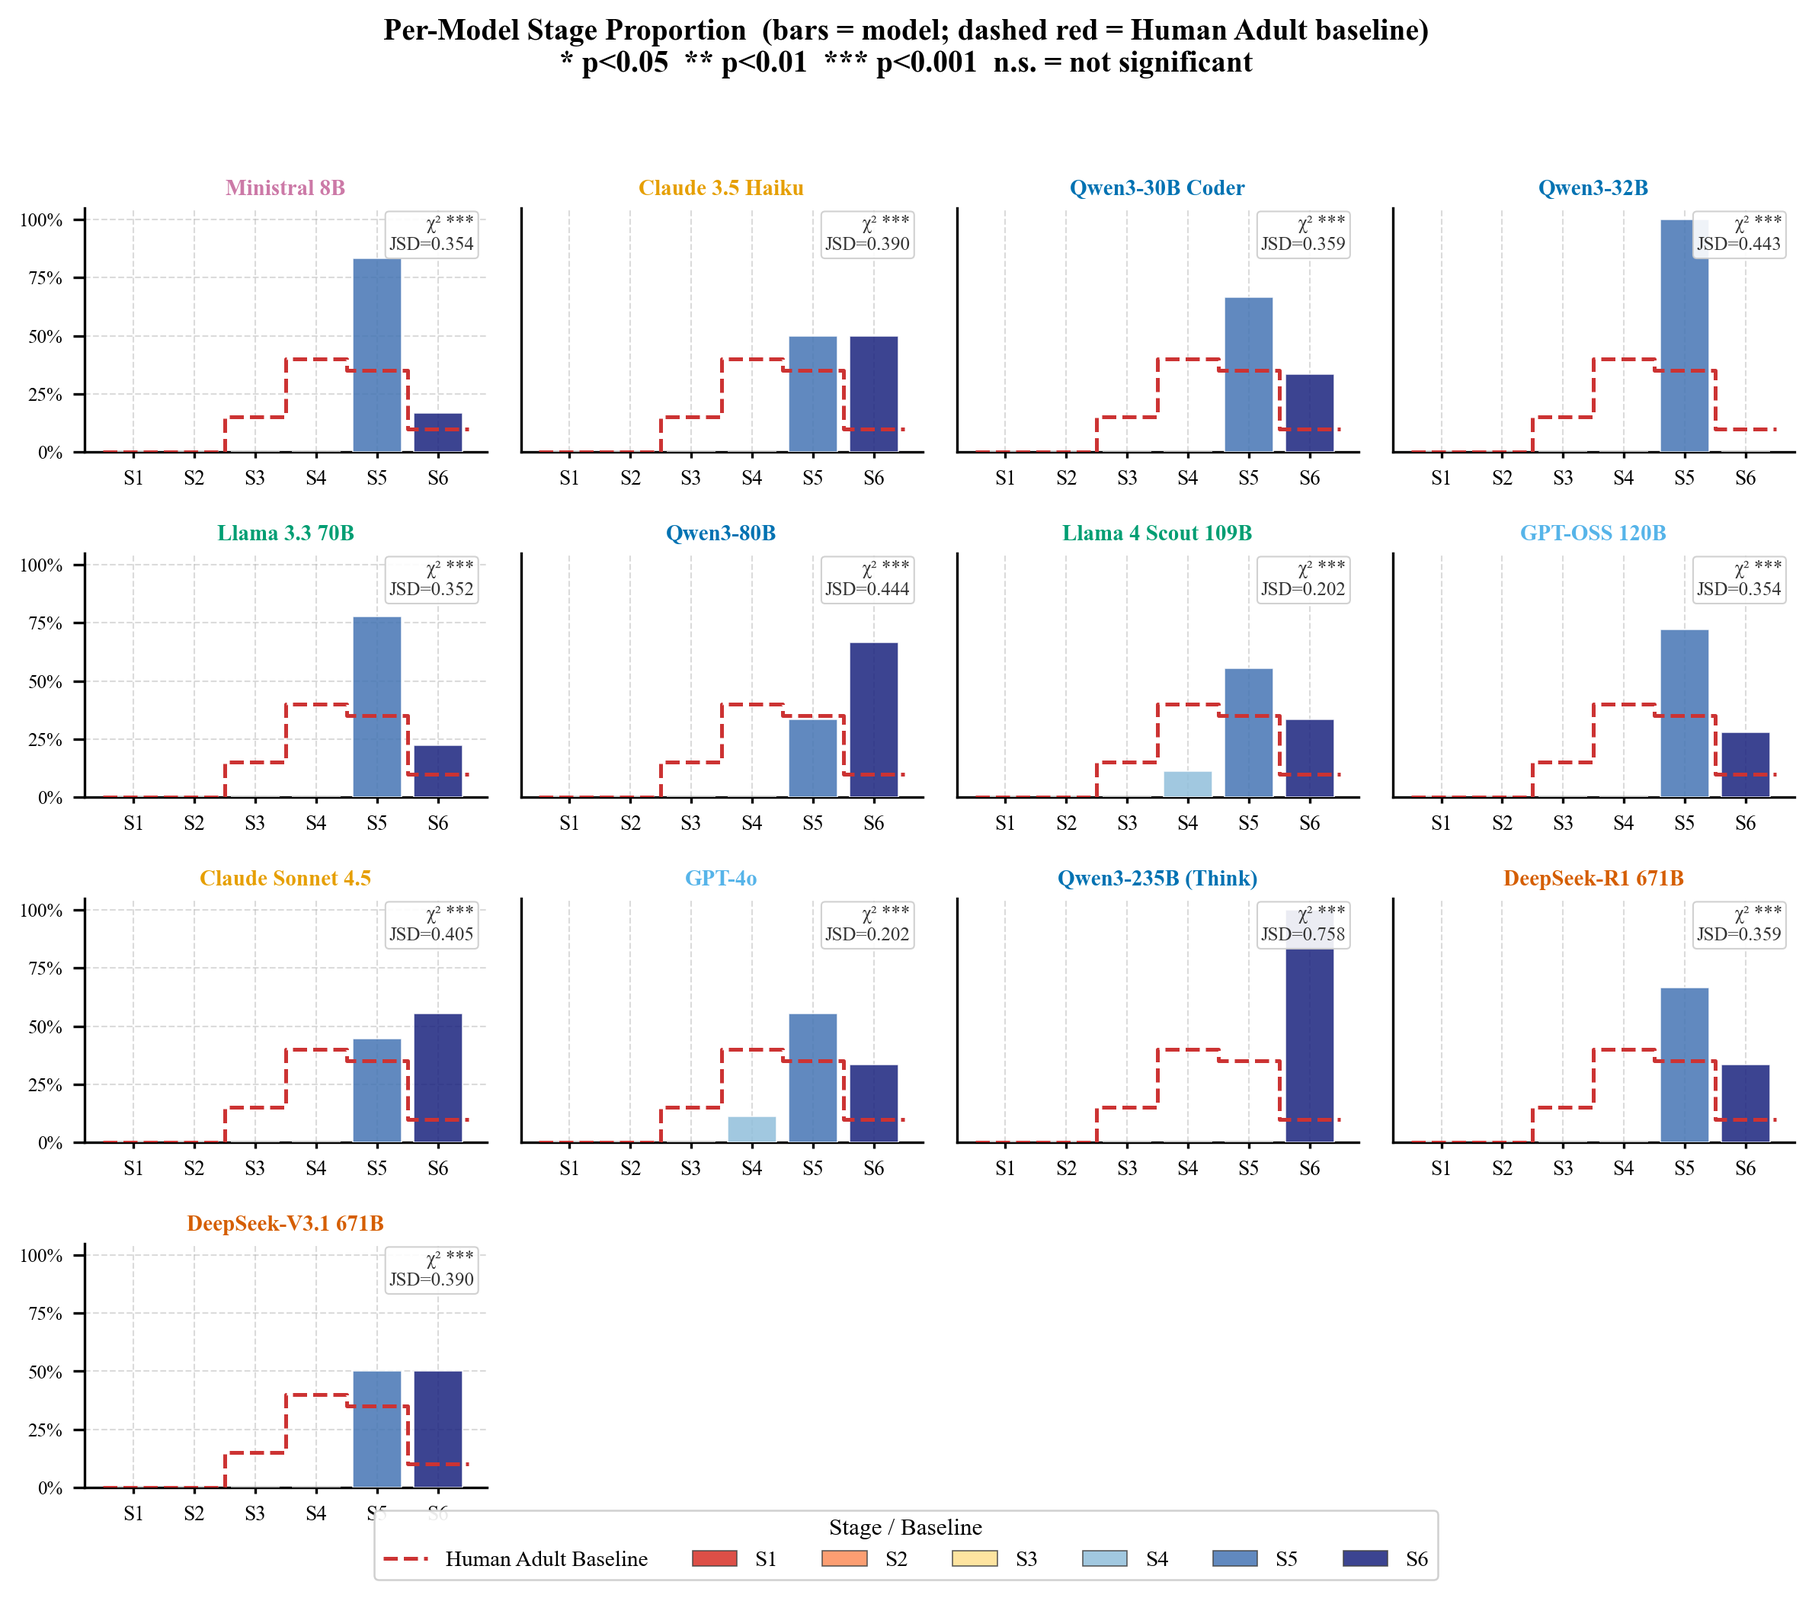
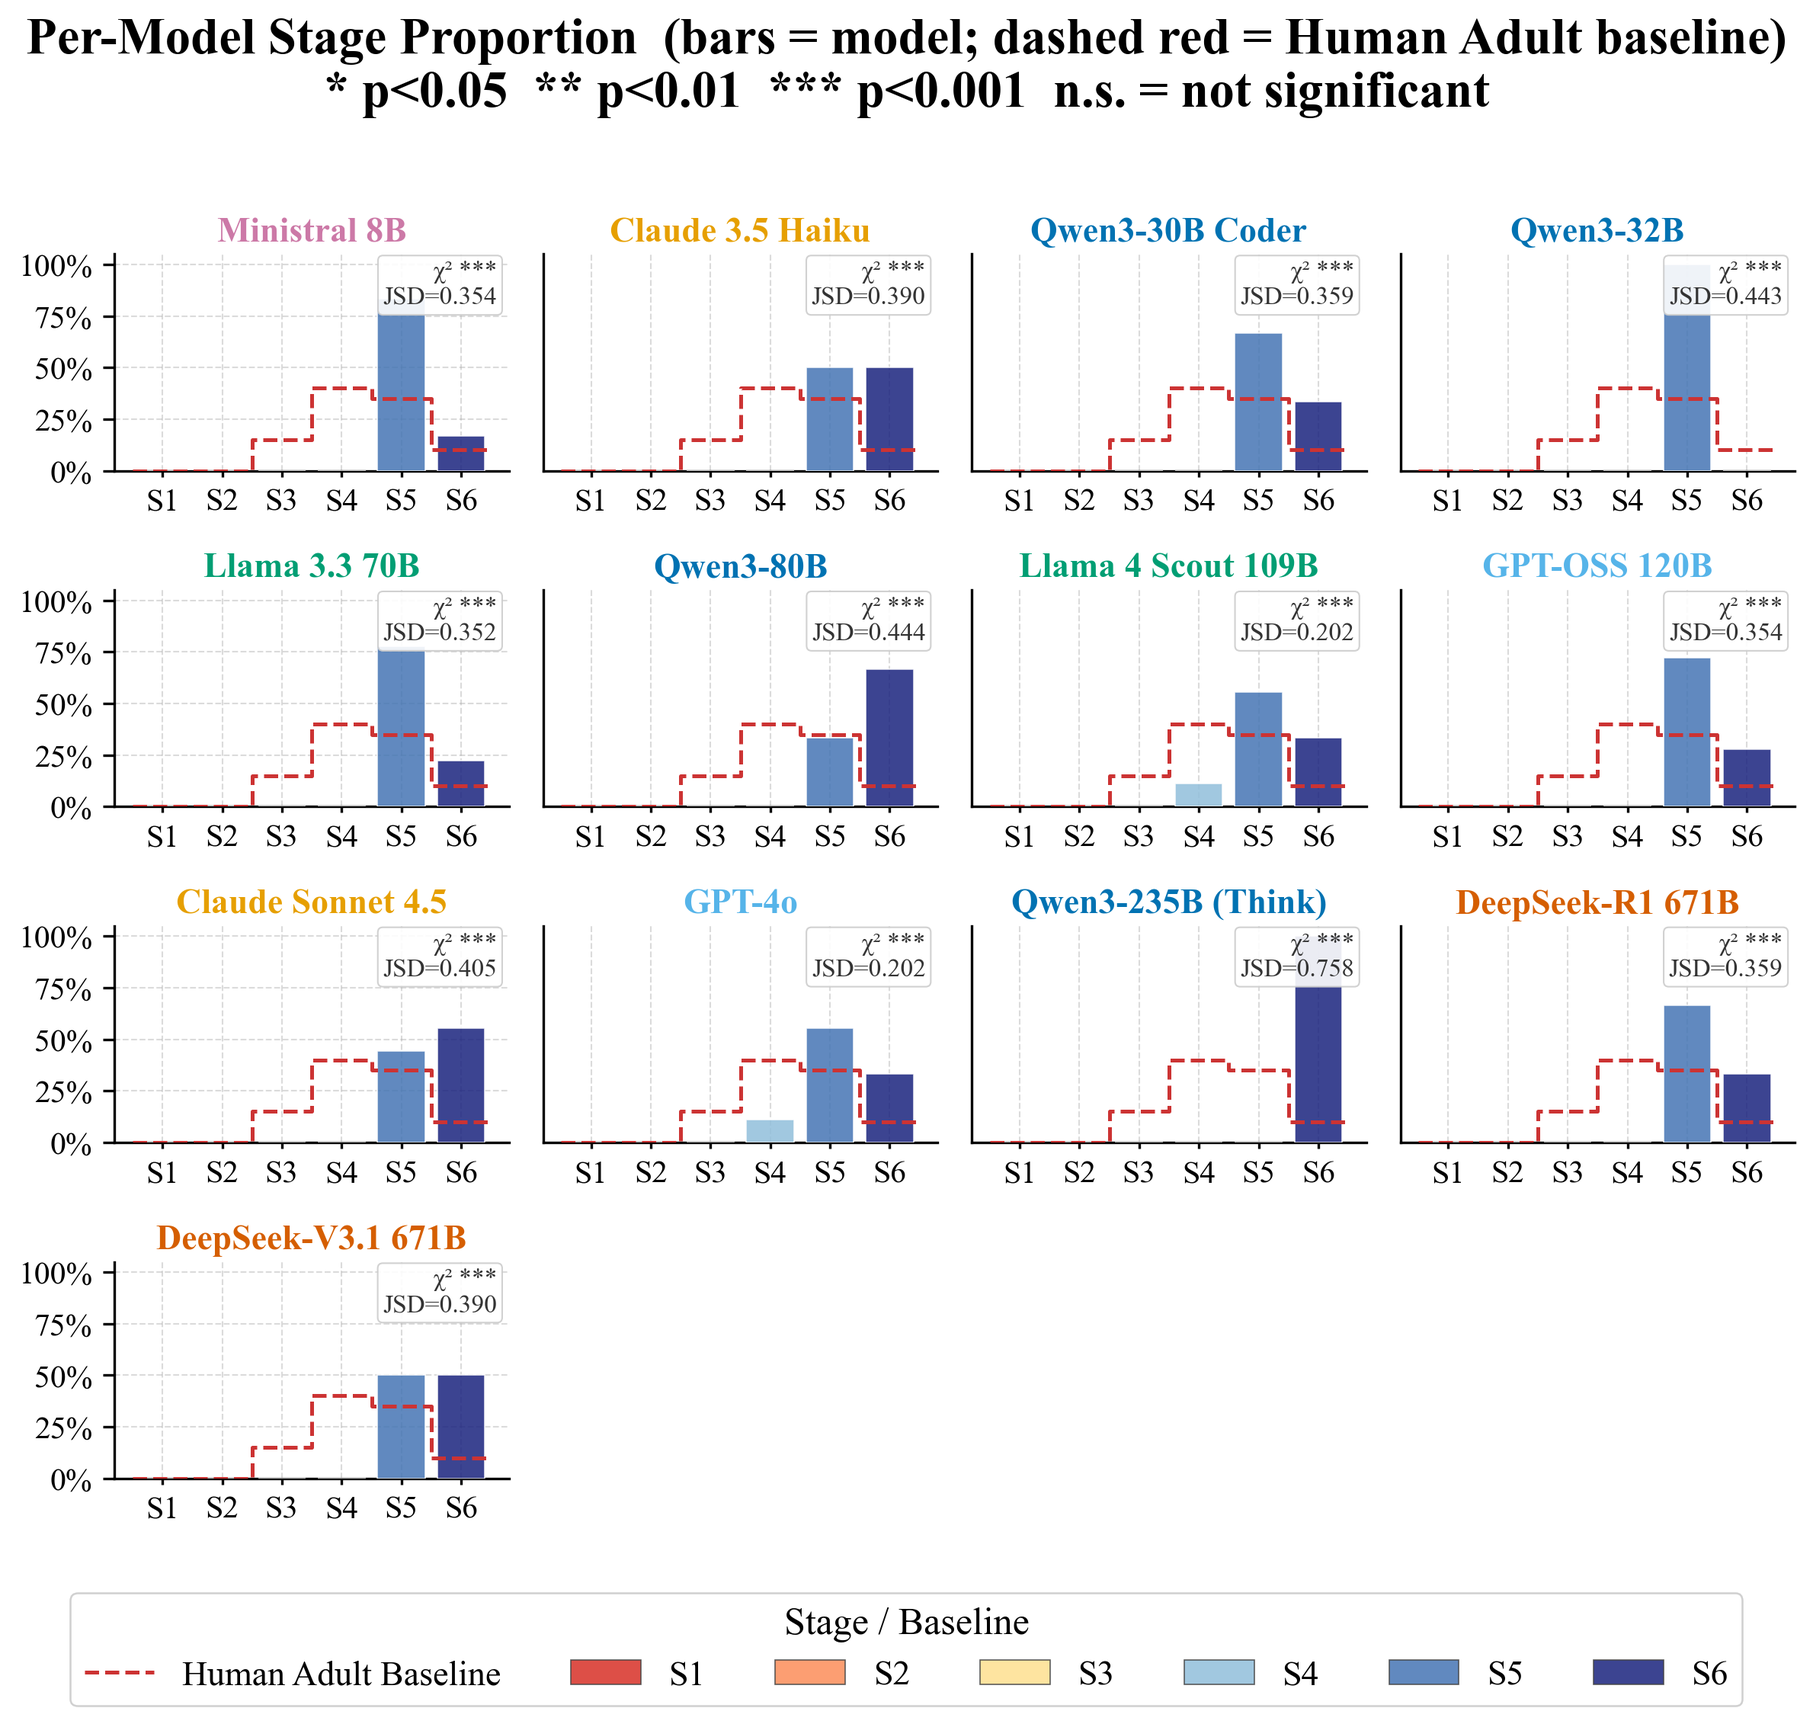
Updated the figures to match the text size

diff --git a/analysis4/visualizations.py b/analysis4/visualizations.py
@@ -117,7 +117,7 @@ def plot_stacked_bar(dist_df: pd.DataFrame, out_dir: Path) -> None:
                 ax.text(
                     left + w / 2, row_idx,
                     f"{w*100:.0f}%",
-                    ha="center", va="center", fontsize=6.2,
+                    ha="center", va="center", fontsize=9.0,
                     color="white" if STAGE_COLORS[s] in ("#4575b4", "#1a237e", "#d73027") else "#222222",
                     fontweight="bold",
                 )
@@ -140,26 +140,26 @@ def plot_stacked_bar(dist_df: pd.DataFrame, out_dir: Path) -> None:
             y_colors.append(_pc(prov))
 
     ax.set_yticks(y_pos)
-    ax.set_yticklabels(y_labels, fontsize=8.0)
+    ax.set_yticklabels(y_labels, fontsize=12.0)
     for ytick, col in zip(ax.get_yticklabels(), y_colors):
         ytick.set_color(col)
 
     ax.set_xlim(0, 1.01)
     ax.set_xticks(np.arange(0, 1.1, 0.1))
-    ax.set_xticklabels([f"{int(v*100)}%" for v in np.arange(0, 1.1, 0.1)], fontsize=8)
-    ax.set_xlabel("Proportion of Responses", labelpad=5)
+    ax.set_xticklabels([f"{int(v*100)}%" for v in np.arange(0, 1.1, 0.1)], fontsize=12)
+    ax.set_xlabel("Proportion of Responses", labelpad=5, fontsize=14)
     ax.set_title(
         "Kohlberg Stage Distribution — All Models vs. Human Baselines\n"
         "(hatch = human baseline; y-axis colour = provider; "
         "bars sorted by model scale small→large)",
-        fontsize=10, pad=8, fontweight="bold",
+        fontsize=16, pad=8, fontweight="bold",
     )
 
     leg = ax.legend(
         handles=_stage_handles(),
-        title="Kohlberg Stage", title_fontsize=8,
+        title="Kohlberg Stage", title_fontsize=12,
         loc="upper left", bbox_to_anchor=(1.01, 1.0),
-        fontsize=7.5, framealpha=0.92, edgecolor="#cccccc",
+        fontsize=11.0, framealpha=0.92, edgecolor="#cccccc",
         ncol=1,
     )
 
@@ -219,7 +219,7 @@ def plot_histogram_grid(dist_df: pd.DataFrame, chi_df: pd.DataFrame, out_dir: Pa
             sig   = "***" if p_val < 0.001 else ("**" if p_val < 0.01 else ("*" if p_val < 0.05 else "n.s."))
             ax.text(0.97, 0.97,
                     f"χ² {sig}\nJSD={jsd:.3f}",
-                    transform=ax.transAxes, fontsize=6.0,
+                    transform=ax.transAxes, fontsize=8.0,
                     va="top", ha="right", color="#333333",
                     bbox=dict(boxstyle="round,pad=0.2", facecolor="white",
                               edgecolor="#cccccc", lw=0.5, alpha=0.90))
@@ -227,16 +227,16 @@ def plot_histogram_grid(dist_df: pd.DataFrame, chi_df: pd.DataFrame, out_dir: Pa
         prov_col = _pc(mrow["provider"])
         ax.set_title(
             mrow["display_name"],
-            fontsize=7.0, pad=4, fontweight="bold", color=prov_col,
+            fontsize=11.0, pad=4, fontweight="bold", color=prov_col,
         )
         ax.set_xticks(x)
-        ax.set_xticklabels([f"S{s}" for s in STAGES], fontsize=6.5)
+        ax.set_xticklabels([f"S{s}" for s in STAGES], fontsize=10.0)
         ax.set_ylim(0, 1.05)
         ax.set_yticklabels([])
         ax.yaxis.set_visible(ax_idx % n_cols == 0)
         if ax_idx % n_cols == 0:
             ax.set_yticks([0, 0.25, 0.50, 0.75, 1.0])
-            ax.set_yticklabels(["0%", "25%", "50%", "75%", "100%"], fontsize=6.0)
+            ax.set_yticklabels(["0%", "25%", "50%", "75%", "100%"], fontsize=10.0)
         ax.tick_params(axis="x", length=2)
 
     # Hide unused panels
@@ -253,16 +253,16 @@ def plot_histogram_grid(dist_df: pd.DataFrame, chi_df: pd.DataFrame, out_dir: Pa
     ]
     fig.legend(
         handles=handles,
-        title="Stage / Baseline", title_fontsize=7.5,
-        loc="lower center", ncol=7,
-        bbox_to_anchor=(0.5, -0.02),
-        fontsize=7.0, framealpha=0.92, edgecolor="#cccccc",
+        title="Stage / Baseline", title_fontsize=12.0,
+        loc="upper center", ncol=7,
+        bbox_to_anchor=(0.5, -0.01),
+        fontsize=11.0, framealpha=0.92, edgecolor="#cccccc",
     )
 
     fig.suptitle(
         "Per-Model Stage Proportion  (bars = model; dashed red = Human Adult baseline)\n"
         "* p<0.05  ** p<0.01  *** p<0.001  n.s. = not significant",
-        fontsize=9.5, fontweight="bold", y=1.02,
+        fontsize=16.0, fontweight="bold", y=1.02,
     )
     fig.tight_layout()
     _save(fig, out_dir, "fig2_histogram_grid.png")
@@ -287,7 +287,7 @@ def plot_jsd_heatmap(jsd_df: pd.DataFrame, out_dir: Path) -> None:
             jsd_df,
             cmap="YlOrRd", vmin=0, vmax=0.55,
             annot=True, fmt=".2f",
-            annot_kws={"size": 6.5, "fontweight": "bold"},
+            annot_kws={"size": 10.0, "fontweight": "bold"},
             linewidths=0.4, linecolor="#e0e0e0",
             row_colors=row_colors,
             col_colors=row_colors,
@@ -299,12 +299,12 @@ def plot_jsd_heatmap(jsd_df: pd.DataFrame, out_dir: Path) -> None:
             method="average", metric="euclidean",
         )
 
-    g.ax_cbar.tick_params(labelsize=8)
+    g.ax_cbar.tick_params(labelsize=12)
     g.ax_heatmap.set_xticklabels(
-        g.ax_heatmap.get_xticklabels(), fontsize=7.0, rotation=40, ha="right"
+        g.ax_heatmap.get_xticklabels(), fontsize=12.0, rotation=40, ha="right"
     )
     g.ax_heatmap.set_yticklabels(
-        g.ax_heatmap.get_yticklabels(), fontsize=7.0, rotation=0
+        g.ax_heatmap.get_yticklabels(), fontsize=12.0, rotation=0
     )
     g.ax_heatmap.set_xlabel("")
     g.ax_heatmap.set_ylabel("")
@@ -317,13 +317,13 @@ def plot_jsd_heatmap(jsd_df: pd.DataFrame, out_dir: Path) -> None:
     g.figure.legend(
         handles=handles, title="Row / Col type",
         loc="upper left", bbox_to_anchor=(0.01, 0.99),
-        fontsize=8, framealpha=0.92, edgecolor="#cccccc",
+        fontsize=12, framealpha=0.92, edgecolor="#cccccc",
     )
 
     g.figure.suptitle(
         "Pairwise Jensen-Shannon Divergence\n"
         "(0 = identical distributions; 1 = maximally different)",
-        fontsize=10, fontweight="bold", y=1.03,
+        fontsize=16, fontweight="bold", y=1.03,
     )
     _save(g.figure, out_dir, "fig3_jsd_heatmap.png")
 

diff --git a/analysis7/visualizations.py b/analysis7/visualizations.py
@@ -46,12 +46,12 @@ def _format_params(p: float) -> str:
     return f"{p:.0f}B"
 
 
-def _log_param_xticks(ax, params_values: np.ndarray) -> None:
+def _log_param_xticks(ax, params_values: np.ndarray, fontsize=8) -> None:
     """Set x-ticks at the exact (plot) parameter counts with human-readable labels."""
     log_vals = np.log10(params_values)
     ax.set_xticks(log_vals)
     ax.set_xticklabels([_format_params(p) for p in params_values],
-                       rotation=35, ha="right", fontsize=8)
+                       rotation=35, ha="right", fontsize=fontsize)
 
 
 def _shade_ci(ax, x_vals, ci_lower, ci_upper, color="#457b9d", alpha=0.18) -> None:
@@ -76,10 +76,10 @@ def plot_emergence_curves(
     X-axis uses log10(params_B_plot) — always populated, no NaN.
     """
     apply_publication_style()
-    fig, axes = plt.subplots(1, 3, figsize=(16, 6), sharey=True)
+    fig, axes = plt.subplots(1, 3, figsize=(22, 9.5), sharey=True)
     fig.suptitle(
         "Figure 1: Emergence Curves — Moral Reasoning Stage vs. Model Scale",
-        fontsize=13, fontweight="bold", y=1.02,
+        fontsize=18, fontweight="bold", y=1.02,
     )
 
     changepoints        = analysis_results.get("changepoints", [])
@@ -99,8 +99,8 @@ def plot_emergence_curves(
 
         if sub.empty:
             ax.text(0.5, 0.5, "No data in this range",
-                    ha="center", va="center", transform=ax.transAxes, color="#999")
-            ax.set_title(group_name, fontsize=10, fontweight="bold")
+                    ha="center", va="center", transform=ax.transAxes, color="#999", fontsize=12)
+            ax.set_title(group_name, fontsize=14, fontweight="bold")
             continue
 
         x_plot  = sub["log_params_plot"].values   # guaranteed non-NaN
@@ -122,13 +122,13 @@ def plot_emergence_curves(
             ax.scatter(xi, yi, color=color, s=70, zorder=5,
                        edgecolors="white", linewidth=0.6)
             # Model label (stagger alternately above/below to reduce overlap)
-            offset_y = 0.10 if sub.index.get_loc(row.Index) % 2 == 0 else -0.15
+            offset_y = 0.10 if sub.index.get_loc(row.Index) % 2 == 0 else -0.18
             ax.annotate(
                 row.display_name,
                 xy=(xi, yi),
-                xytext=(0, int(offset_y * 60)),
+                xytext=(0, int(offset_y * 100)),
                 textcoords="offset points",
-                fontsize=7, ha="center", color="#333",
+                fontsize=13, ha="center", color="#333",
                 rotation=20, zorder=6,
             )
 
@@ -137,7 +137,7 @@ def plot_emergence_curves(
             ax.axhline(stage_y, color=STAGE_COLORS[stage_y],
                        linestyle=":", linewidth=0.9, alpha=0.6, zorder=0)
             ax.text(x_plot.max(), stage_y + 0.03, stage_lbl,
-                    color=STAGE_COLORS[stage_y], fontsize=6.5, ha="right",
+                    color=STAGE_COLORS[stage_y], fontsize=12, ha="right",
                     va="bottom", zorder=0)
 
         # Changepoints that fall within this panel's x range
@@ -150,7 +150,7 @@ def plot_emergence_curves(
                     ax.axvline(bkp_x, color="#e63946", linestyle="--",
                                linewidth=1.4, alpha=0.85, zorder=4)
                     ax.text(bkp_x + 0.01, y_lo.min() + 0.05,
-                            "CP", color="#e63946", fontsize=7, zorder=4)
+                            "CP", color="#e63946", fontsize=13, zorder=4)
 
         # Emergence marker
         if not np.isnan(emrg_p) and lo <= emrg_p <= hi:
@@ -158,23 +158,24 @@ def plot_emergence_curves(
                        linewidth=1.5, alpha=0.9, zorder=4)
             ax.text(np.log10(emrg_p) + 0.01, y_hi.max() - 0.2,
                     f"Stage 5+\nEmergence\n({_format_params(emrg_p)})",
-                    color="#2a9d8f", fontsize=6.5, zorder=4)
+                    color="#2a9d8f", fontsize=12, zorder=4)
 
         # Axes
-        ax.set_title(group_name, fontsize=10, fontweight="bold", pad=8)
-        ax.set_xlabel("Model Parameters (log scale)", fontsize=9)
+        ax.set_title(group_name, fontsize=16, fontweight="bold", pad=10)
+        ax.set_xlabel("Model Parameters (log scale)", fontsize=15)
         if ax is axes[0]:
-            ax.set_ylabel("Mean Moral Reasoning Stage", fontsize=9)
+            ax.set_ylabel("Mean Moral Reasoning Stage", fontsize=15)
         ax.set_ylim(4.8, 6.3)
         ax.yaxis.set_major_locator(mticker.MultipleLocator(0.25))
-        _log_param_xticks(ax, sub["params_B_plot"].values)
+        ax.tick_params(axis='both', which='major', labelsize=13)
+        _log_param_xticks(ax, sub["params_B_plot"].values, fontsize=13)
         if len(x_plot) > 1:
             ax.set_xlim(x_plot.min() - 0.1, x_plot.max() + 0.15)
 
     # Scenario annotation
     scenario = analysis_results.get("scenario", "")
     fig.text(0.5, -0.01, f"Detected pattern: {scenario}",
-             ha="center", fontsize=10, style="italic", color="#444")
+             ha="center", fontsize=13, style="italic", color="#444")
 
     # Shared legend
     handles = _provider_legend_handles()
@@ -184,9 +185,10 @@ def plot_emergence_curves(
         mpatches.Patch(color="#457b9d", alpha=0.3, label="95% CI"),
     ]
     fig.legend(handles=handles, loc="lower center", ncol=6,
-               bbox_to_anchor=(0.5, -0.13), fontsize=8, framealpha=0.9)
+               bbox_to_anchor=(0.5, -0.06), fontsize=12, framealpha=0.9)
 
-    plt.tight_layout()
+    plt.tight_layout(pad=2.0, h_pad=1.0, w_pad=1.0)
+    fig.subplots_adjust(bottom=0.15)
     out = OUT_DIR / "fig1_emergence_curves.png"
     plt.savefig(out)
     plt.close()

diff --git a/analysis9/visualizations.py b/analysis9/visualizations.py
@@ -149,7 +149,7 @@ def plot_threshold_detection(model_df: pd.DataFrame,
             row["display_name"],
             (row["log_params"], row["mean_stage"]),
             textcoords="offset points", xytext=(5, 3),
-            fontsize=6.5, color="#333333",
+            fontsize=10.0, color="#333333",
         )
 
     if t_res.get("x_fine") is not None:
@@ -165,12 +165,12 @@ def plot_threshold_detection(model_df: pd.DataFrame,
         ax.axvline(sif, color="#e15759", ls=":", lw=1.5, alpha=0.8)
         ax.text(sif + 0.02, ax.get_ylim()[1] * 0.97,
                 f"Inflection\nx={sif:.2f}", color="#e15759",
-                fontsize=7.5, va="top")
+                fontsize=11.0, va="top")
 
-    ax.set_xlabel("log₁₀(Parameters, B)", fontsize=10)
-    ax.set_ylabel("Mean Kohlberg Stage", fontsize=10)
-    ax.set_title("Figure B: Threshold Detection\n(log Params vs. Mean Stage)", fontsize=10)
-    ax.legend(fontsize=8, loc="upper left")
+    ax.set_xlabel("log₁₀(Parameters, B)", fontsize=14)
+    ax.set_ylabel("Mean Kohlberg Stage", fontsize=14)
+    ax.set_title("Figure B: Threshold Detection\n(log Params vs. Mean Stage)", fontsize=16)
+    ax.legend(fontsize=12, loc="upper left")
     ax.grid(True, ls="--", alpha=0.35)
     ax.spines["top"].set_visible(False)
     ax.spines["right"].set_visible(False)
@@ -192,17 +192,17 @@ def plot_threshold_detection(model_df: pd.DataFrame,
         ax2.axvline(0.7, color="#e15759", ls=":", lw=1.2, alpha=0.7, label="Good (0.7)")
         for bar, val in zip(bars, auc_df["AUC"]):
             ax2.text(val + 0.01, bar.get_y() + bar.get_height() / 2,
-                     f"{val:.2f}", va="center", fontsize=8)
+                     f"{val:.2f}", va="center", fontsize=11)
         ax2.set_xlim(0, 1.05)
-        ax2.set_xlabel("AUC (High vs. Low Mean Stage)", fontsize=10)
-        ax2.set_title("Metric AUC: Predicting\nHigh vs. Low Mean Stage", fontsize=10)
-        ax2.legend(fontsize=8)
+        ax2.set_xlabel("AUC (High vs. Low Mean Stage)", fontsize=14)
+        ax2.set_title("Metric AUC: Predicting\nHigh vs. Low Mean Stage", fontsize=16)
+        ax2.legend(fontsize=12)
         ax2.spines["top"].set_visible(False)
         ax2.spines["right"].set_visible(False)
     else:
         ax2.text(0.5, 0.5, "AUC data unavailable", ha="center", va="center",
-                 transform=ax2.transAxes, fontsize=10, color="grey")
-        ax2.set_title("Metric AUC", fontsize=10)
+                 transform=ax2.transAxes, fontsize=14, color="grey")
+        ax2.set_title("Metric AUC", fontsize=16)
 
     plt.tight_layout()
     out_path = OUT_DIR / "fig_B_threshold_detection.png"

diff --git a/analysis3/visualizations.py b/analysis3/visualizations.py
@@ -205,10 +205,10 @@ def plot_radar_grid(df: pd.DataFrame, out_dir: Path) -> None:
 
         # Spoke labels
         ax.set_xticks(angles[:-1])
-        ax.set_xticklabels(dilemmas, fontsize=6.5, color="#333333")
+        ax.set_xticklabels(dilemmas, fontsize=10.0, color="#333333")
         ax.set_ylim(0, 6)
         ax.set_yticks([2, 4, 6])
-        ax.set_yticklabels(["S2", "S4", "S6"], fontsize=5.5, color="#999999")
+        ax.set_yticklabels(["S2", "S4", "S6"], fontsize=9.0, color="#999999")
         ax.grid(color="#cccccc", linewidth=0.5)
         ax.spines["polar"].set_linewidth(0.5)
         ax.spines["polar"].set_color(prov_col)
@@ -217,7 +217,7 @@ def plot_radar_grid(df: pd.DataFrame, out_dir: Path) -> None:
         params = int(model_meta.loc[model_name, "params_B"])
         ax.set_title(
             f"{model_name}\n({params} B)",
-            fontsize=6.8, pad=8, color="#222222", fontweight="bold",
+            fontsize=11.0, pad=8, color="#222222", fontweight="bold",
             bbox=dict(boxstyle="round,pad=0.2", facecolor=prov_col,
                       edgecolor="none", alpha=0.18),
         )
@@ -233,15 +233,15 @@ def plot_radar_grid(df: pd.DataFrame, out_dir: Path) -> None:
     ]
     fig.legend(
         handles=leg_handles,
-        title="Prompt Type", title_fontsize=8,
+        title="Prompt Type", title_fontsize=12,
         loc="lower center", ncol=3,
         bbox_to_anchor=(0.5, -0.02),
-        fontsize=8, framealpha=0.92, edgecolor="#cccccc",
+        fontsize=12, framealpha=0.92, edgecolor="#cccccc",
     )
 
     fig.suptitle(
         "Stage Profile Across Dilemmas by Prompt Type  (Radar Charts)",
-        y=1.02, fontsize=11, fontweight="bold",
+        y=1.02, fontsize=16, fontweight="bold",
     )
     fig.tight_layout()
     _save(fig, out_dir, "fig2_radar_grid.png")
